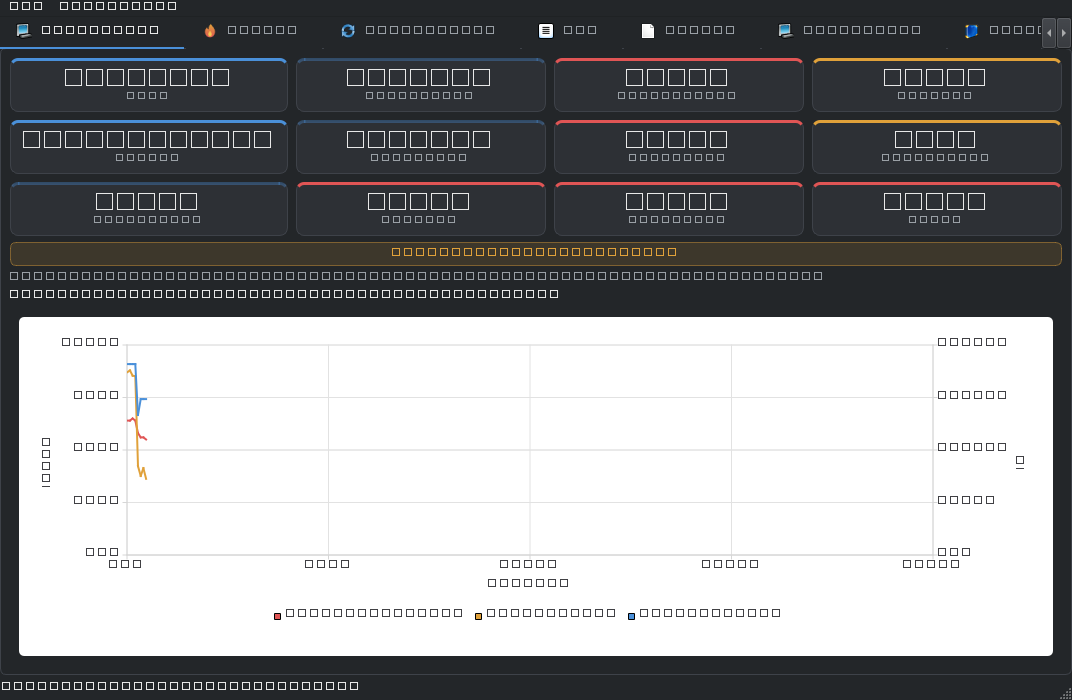
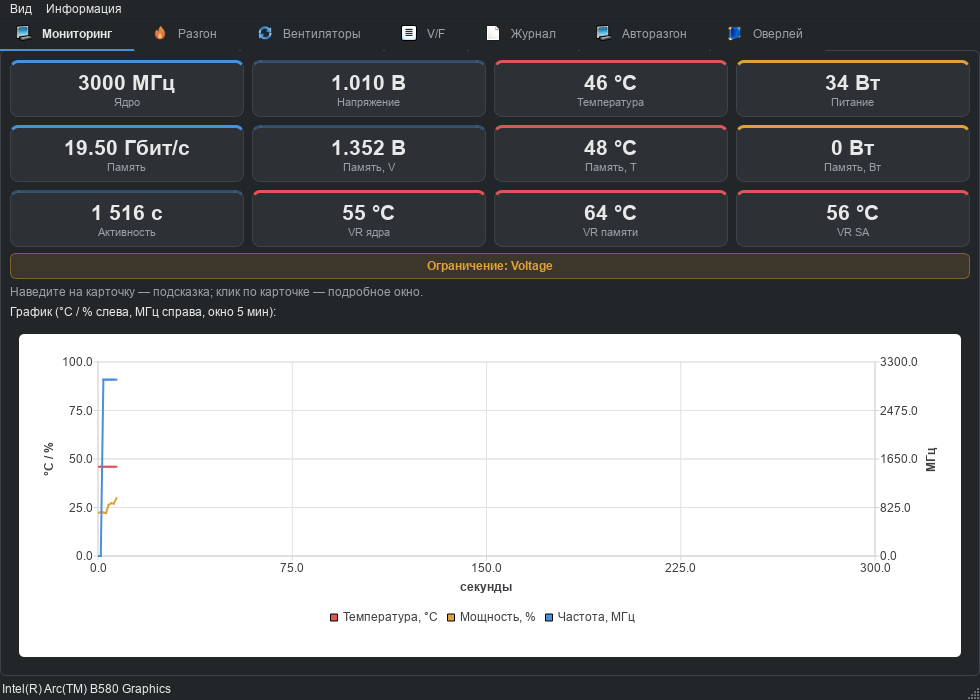
fix(assets): переснять превью — offscreen-рендер давал квадратики вместо текста
Причина: Qt-платформа offscreen не находит шрифты Windows, поэтому весь текст
(включая цифры) рисовался tofu-квадратиками. Лечение — QT_QPA_FONTDIR=
C:\Windows\Fonts до создания QApplication.

- 4 превью пересняты с реальной B580: подписи, значения, статус-бар читаются;
- scripts/theme_preview.py: та же переменная плюс offscreen-платформа
  без всплывающего окна, как и заявлено в докстринге.

diff --git a/scripts/theme_preview.py b/scripts/theme_preview.py
@@ -10,6 +10,12 @@ import os
 import sys
 import tempfile
 
+# Скриншоты без всплывающего окна; QT_QPA_FONTDIR обязателен — иначе
+# offscreen-платформа не находит шрифты Windows и весь текст становится
+# квадратиками (проверено: с переменной текст рендерится).
+os.environ.setdefault("QT_QPA_PLATFORM", "offscreen")
+os.environ.setdefault("QT_QPA_FONTDIR", r"C:\Windows\Fonts")
+
 from PySide6.QtCore import QTimer
 from PySide6.QtWidgets import QApplication
 
